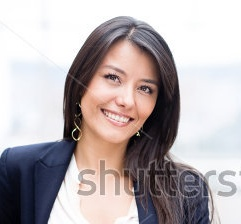
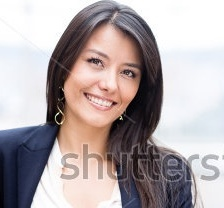
minor adjustments to photos and get the signup for newsletter working

diff --git a/_includes/home/case-studies.html b/_includes/home/case-studies.html
@@ -23,7 +23,8 @@
           
             <div class="benefits">
               <div >
-                <div class="circular-image"><img src="/images/stock/stock-photo-elegant-middle-aged-female-architect-with-binoculars-110296997.jpg"></div>                            <div style="" >            
+                <div class="circular-image"><img src="/images/stock/stock-photo-mature-businessman-smiling-159494420.jpg"></div>                            <div style="" >            
+
                   <div class="summary">
                     <strong>Local NGOs</strong>                    
                     <p>Citizen-friendly language helps residents understand what’s happening in their neighborhoods &amp; identify opportunities to pitch in</p>                    
@@ -73,7 +74,7 @@
           
             <div class="benefits">
               <div >
-                <div class="circular-image"><img src="/images/stock/stock-photo-mature-businessman-smiling-159494420.jpg"></div>                            <div style="" >            
+                <div class="circular-image"><img src="/images/stock/stock-photo-elegant-middle-aged-female-architect-with-binoculars-110296997.jpg"></div>                            <div style="" >                            
                   <div class="summary">
                     <strong>Developers and Business Owners</strong>                    
                     <p>Developers can track multiple properties at a time to stay on top of all of their projects. With real-time email alerts, they’ll save valuable time & never miss a critical project update again. </p>                    

diff --git a/_includes/home/newsletter.html b/_includes/home/newsletter.html
@@ -3,16 +3,17 @@
   <article class="columns">
       <div class="center"><h1 >Stay in Touch!</h1></div>
         <div class="form">
-          <form action='/signup' method='POST'>
-            <input class="email" name='email' type='text' placeholder="First Name">
-            <input class="email" name='email' type='text' placeholder="Last Name">
-            <input class="email" name='email' type='text' placeholder="Email">
+          <form action="http://civicinsight.us4.list-manage.com/subscribe/post?u=bc89bc1a568c7ecb05735ef0d&amp;id=1df64879e9" method="post">
+            <input class="FNAME" name='FNAME' type='text' placeholder="Your Name">
+            <input class="EMAIL" name='EMAIL' type='text' placeholder="Email">
             <input class="menu-button btn-glow primary btn-submit signup" style="border: 0; padding: 10px" value="Sign me up" type="submit">            
           </form>
         </div>
-        <p>
-          newletter
-        </p>
+        <div style="text-align:center;width: 80%; margin: 0 auto; font-size: 80%">
+          <p>
+             You can keep up to date by subscribing to our free newsletters. You can unsubscribe at any time.
+          </p>
+        </div>
       </div>
   </article>
 </section>

diff --git a/stylesheets/style.css b/stylesheets/style.css
@@ -147,7 +147,7 @@ h5{
   
 }
 
-#pricing h1{
+#pricing h1, #press h1{
   height: 120px  ;
 }
 .horizontal{
@@ -268,15 +268,15 @@ li{
 }
 
 
-#newsletter{
-  .columns{
-    padding: 60px 0 80px;
-    p{
-      text-align: center;
-      margin: 0 auto;
-    }
-  }  
+#newsletter .columns{
+  padding: 60px 0 80px;
+}  
+
+#newsletter p{
+  text-align: center;
+  margin: 0 auto;
 }
+
 #knowledge-is-power { 
 /*	background: url(../images/about.jpg) 50% 0 no-repeat fixed; */
 	height: 385px;
@@ -332,7 +332,7 @@ li{
   position: relative; 
   color: white;
   background: white;
-  height: 800px;
+  height: 850px;
 /*  border: 1px solid black;*/
 }
 
@@ -734,7 +734,7 @@ blockquote{
 #case-studies{
   text-align: white !important;
   background-color: #00b9bd !important ;  
-  height: 800px;
+  height: 820px;
 }
 
 #case-studies li{
@@ -764,7 +764,7 @@ blockquote{
   border-radius: 150px;
   position: absolute;
   overflow: hidden;
-  border: 1px solid #666;
+  border: 2px solid #eee;
 }
 
 .circular-image img{

diff --git a/javascripts/script.js b/javascripts/script.js
@@ -48,15 +48,30 @@ $(document).ready(function() {
  	});
   
   
-  $('form').submit(function(e){
+  $('#newsletter form').submit(function(e){
+    
+    e.preventDefault();
+    var current_form = this;
+    var formAction = $(this).attr('action');
+    var formData = $(this).serialize();
+      
+    $.post( formAction, formData, function( data ) {
+    }, "json").always(function(){
+      $('#newsletter h1').empty();
+      $('#newsletter form').html("<h3>Thank you. You will receive an email short to confirm your signup.</h3>");
+      
+      
+    });
+        
+  });
+    
+  $('#signup form').submit(function(e){
     e.preventDefault();
     var current_form = this;
     var emailVal = $('#EMAIL').attr('value');
     var formAction = $(this).attr('action');
     var formData = $(this).serialize();
     
-    console.log(formAction);
-    console.log(formData);
     
 
     $.post( formAction, formData, function( data ) {
